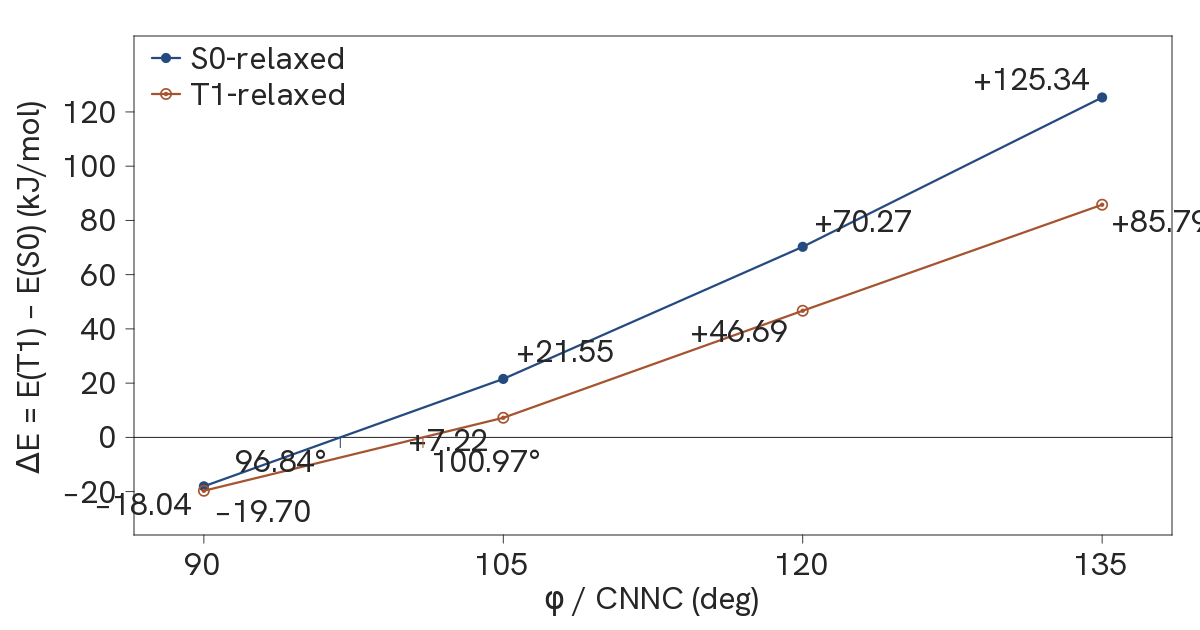
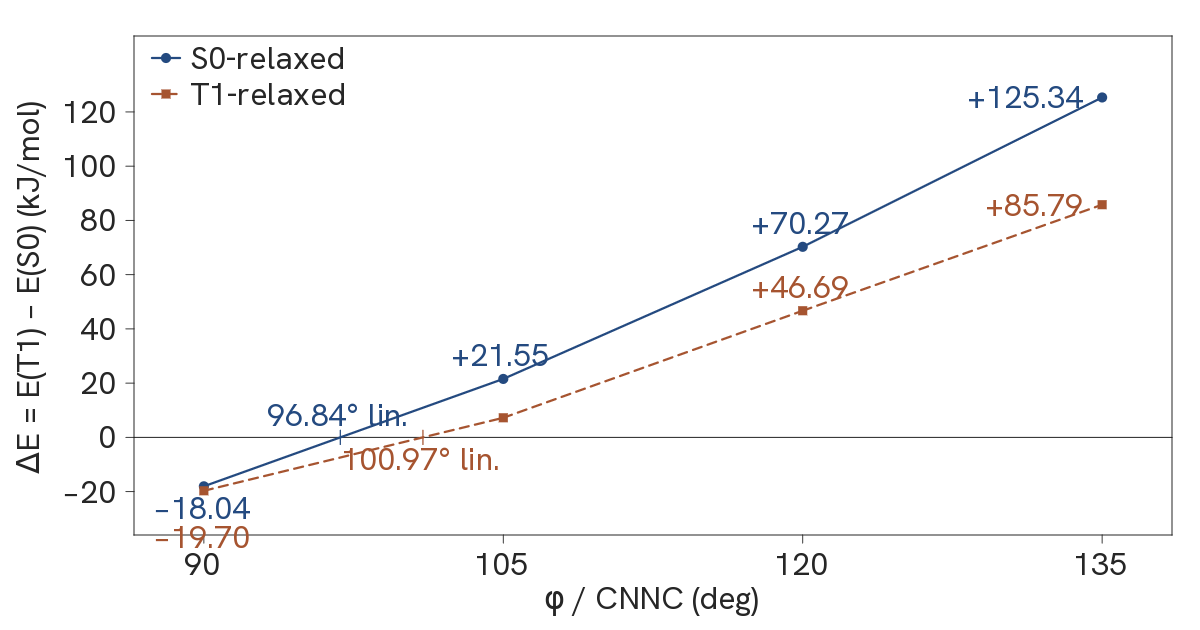
Match two-root Figure 1 to lin. hashes and dashed T1 squares.
The documented figure generator now draws S0-relaxed as a solid series
with filled circles and T1-relaxed as a dashed series with filled
squares. Stored 90–105 interpolants are short hashes on the zero line
labeled lin.; T1 105 stays unlabeled so those hashes remain readable.
The committed 1200×630 OG PNG is the output of that command.

diff --git a/research/hillel-m4-sft-tworoot/analysis/make_deltaE_figure.py b/research/hillel-m4-sft-tworoot/analysis/make_deltaE_figure.py
@@ -519,6 +519,55 @@ def circle(rgb, cx, cy, r, color, fill=True, stroke=1.2):
     )
 
 
+def square(rgb, cx, cy, half, color, fill=True, stroke=1.2):
+    """Axis-aligned square marker. half is the half-side in pixels."""
+    h, w = rgb.shape[:2]
+    cx, cy, half = float(cx), float(cy), float(half)
+    pad = half + stroke + 1.5
+    xmin = max(int(np.floor(cx - pad)), 0)
+    xmax = min(int(np.ceil(cx + pad)) + 1, w)
+    ymin = max(int(np.floor(cy - pad)), 0)
+    ymax = min(int(np.ceil(cy + pad)) + 1, h)
+    if xmin >= xmax or ymin >= ymax:
+        return
+    ys, xs = np.mgrid[ymin:ymax, xmin:xmax]
+    cheb = np.maximum(np.abs(xs + 0.5 - cx), np.abs(ys + 0.5 - cy))
+    if fill:
+        a = np.clip((half + 0.45) - cheb, 0.0, 1.0)
+    else:
+        a = np.clip((stroke * 0.5 + 0.45) - np.abs(cheb - half), 0.0, 1.0)
+    sl = rgb[ymin:ymax, xmin:xmax].astype(np.float64)
+    col = np.asarray(color, dtype=np.float64).reshape(1, 1, 3)
+    rgb[ymin:ymax, xmin:xmax] = np.clip(sl * (1.0 - a[..., None]) + col * a[..., None], 0, 255).astype(
+        np.uint8
+    )
+
+
+def dashed_line(rgb, x0, y0, x1, y1, color, width=1.2, dash=9.0, gap=6.5):
+    dx, dy = float(x1) - float(x0), float(y1) - float(y0)
+    length = math.hypot(dx, dy)
+    if length < 1e-6:
+        return
+    ux, uy = dx / length, dy / length
+    t = 0.0
+    on = True
+    while t < length:
+        run = dash if on else gap
+        t2 = min(length, t + run)
+        if on:
+            line(
+                rgb,
+                float(x0) + ux * t,
+                float(y0) + uy * t,
+                float(x0) + ux * t2,
+                float(y0) + uy * t2,
+                color,
+                width,
+            )
+        t = t2
+        on = not on
+
+
 def blit_img(rgb, img, x, y):
     h, w = img.shape[:2]
     x, y = int(round(x)), int(round(y))
@@ -554,6 +603,8 @@ def missing_frames() -> list[Path]:
 def load_cropped_frame(surf: str, phi: int) -> np.ndarray:
     x0, y0, x1, y1 = CROP
     path = frame_path(surf, phi)
+    if not path.is_file():
+        raise SystemExit(f"missing lab frame: {path.name}")
     im = read_png(path)
     crop = im[y0:y1, x0:x1]
     # refuse to ship a still that still has the old in-frame caption
@@ -650,58 +701,65 @@ def render_plot(metrics: dict, font: Font) -> np.ndarray:
     )
 
     # Two series: adjacent both-assigned neighbors only; straight segments.
+    # S0-relaxed: solid line, filled circles. T1-relaxed: dashed, filled squares.
     for fam in FAMILY_ORDER:
         pts = series[fam]
         color = FAMILY_COLOR[fam]
         for (a, da), (b, db) in zip(pts, pts[1:]):
-            line(rgb, X(a), Y(da), X(b), Y(db), color, 2.15)
+            if fam == "t1_relaxed":
+                dashed_line(rgb, X(a), Y(da), X(b), Y(db), color, 2.15)
+            else:
+                line(rgb, X(a), Y(da), X(b), Y(db), color, 2.15)
         for phi, de in pts:
             if fam == "s0_relaxed":
                 circle(rgb, X(phi), Y(de), 5.1, color, fill=True)
             else:
-                circle(rgb, X(phi), Y(de), 5.1, color, fill=False, stroke=1.8)
-                circle(rgb, X(phi), Y(de), 2.2, color, fill=True)
+                square(rgb, X(phi), Y(de), 4.6, color, fill=True)
 
-    # Point labels from file values, 2 decimals. Offsets keep strings off
-    # markers, both series, the 0-line, and the two interpolant labels.
+    # Point labels from file values, 2 decimals, series color.
+    # T1 105 is drawn but unlabeled: that pocket holds the two lin. hashes.
     label_off = {
         "s0_relaxed": {
-            90: (-8, 18, "right"),
-            105: (14, -28, "left"),
-            120: (12, -26, "left"),
-            135: (-8, -18, "right"),
+            90: (0, 22, "center"),
+            105: (0, -24, "center"),
+            120: (0, -24, "center"),
+            135: (-14, 0, "right"),
         },
         "t1_relaxed": {
-            90: (10, 20, "left"),
-            105: (-10, 22, "right"),
-            120: (-10, 20, "right"),
-            135: (10, 16, "left"),
+            90: (0, 46, "center"),
+            120: (0, -24, "center"),
+            135: (-14, 0, "right"),
         },
     }
     for fam in FAMILY_ORDER:
+        color = FAMILY_COLOR[fam]
         for phi, de in series[fam]:
-            dx, dy, al = label_off[fam][int(phi)]
+            key = int(phi)
+            if key not in label_off[fam]:
+                continue
+            dx, dy, al = label_off[fam][key]
             text(
                 rgb, font, fmt_delta(de),
                 X(phi) + dx, Y(de) + dy,
-                font_px, INK, align=al, valign="middle",
+                font_px, color, align=al, valign="middle",
             )
 
-    # Linear interpolants of the 90–105 pairs at ΔE = 0. Not 110°.
-    # Not drawn as an MECP or an evaluated degeneracy: tick + stored angle.
+    # Stored interpolants only: short hashes on the zero line, labeled "lin."
+    # Not 110°. Not drawn as an MECP, a star, or an evaluated degeneracy.
     s0_xc = interpolants["s0_relaxed"]
     t1_xc = interpolants["t1_relaxed"]
-    line(rgb, X(s0_xc), y0, X(s0_xc), y0 + 10, SERIES_S0, 0.95)
-    line(rgb, X(t1_xc), y0, X(t1_xc), y0 + 10, SERIES_T1, 0.95)
+    hash_h = 7
+    line(rgb, X(s0_xc), y0 - hash_h, X(s0_xc), y0 + hash_h, SERIES_S0, 1.15)
+    line(rgb, X(t1_xc), y0 - hash_h, X(t1_xc), y0 + hash_h, SERIES_T1, 1.15)
     text(
-        rgb, font, f"{s0_xc:.2f}\u00b0",
-        X(s0_xc) - 8, y0 + 12,
-        font_px, INK, align="right", valign="top",
+        rgb, font, f"{s0_xc:.2f}\u00b0 lin.",
+        X(s0_xc), y0 - 10,
+        font_px, SERIES_S0, align="center", valign="bottom",
     )
     text(
-        rgb, font, f"{t1_xc:.2f}\u00b0",
-        X(t1_xc) + 8, y0 + 12,
-        font_px, INK, align="left", valign="top",
+        rgb, font, f"{t1_xc:.2f}\u00b0 lin.",
+        X(t1_xc), y0 + 10,
+        font_px, SERIES_T1, align="center", valign="top",
     )
 
     # Legend in the empty upper-left of the data box.
@@ -715,9 +773,8 @@ def render_plot(metrics: dict, font: Font) -> np.ndarray:
         font_px, INK, align="left", valign="middle",
     )
     legend_y2 = legend_y + 36
-    line(rgb, legend_x, legend_y2, legend_x + 28, legend_y2, SERIES_T1, 2.15)
-    circle(rgb, legend_x + 14, legend_y2, 5.1, SERIES_T1, fill=False, stroke=1.8)
-    circle(rgb, legend_x + 14, legend_y2, 2.2, SERIES_T1, fill=True)
+    dashed_line(rgb, legend_x, legend_y2, legend_x + 28, legend_y2, SERIES_T1, 2.15)
+    square(rgb, legend_x + 14, legend_y2, 4.6, SERIES_T1, fill=True)
     text(
         rgb, font, FAMILY_LABEL["t1_relaxed"],
         legend_x + 38, legend_y2,
@@ -816,8 +873,9 @@ def main():
             print(f"    phi={phi:g}  deltaE_kJmol={de}  label={fmt_delta(de)}")
     for fam in FAMILY_ORDER:
         xc = metrics["interpolants"][fam]
-        print(f"interpolant {fam} phi={xc}  label={xc:.2f}°")
+        print(f"interpolant {fam} phi={xc}  label={xc:.2f}° lin.")
     print("pairs with a drawn interpolant: 90–105 on each family; 110° not marked")
+    print("T1 105 is drawn unlabeled; interpolants are short hashes labeled lin.")
     print("ACS: no title, no subtitle, no stills on the plot")
     print(
         f"standing rule: font_px = round({BODY_PX} * W / {DISPLAY_W}) "

diff --git a/posts/2026-08-28-does-the-m4-sf-profile-gap-survive-same-geometry-two-root.md b/posts/2026-08-28-does-the-m4-sf-profile-gap-survive-same-geometry-two-root.md
@@ -63,10 +63,10 @@ All eight same-geometry points are both-assigned. Table 1 lists assigned SF-S0 a
 **Table 2.** Assigned SF-S0 and SF-T1 totals from one same-geometry SF-TDA single point on each T1-relaxed constrained-CNNC geometry. $\Delta E = E(\mathrm{T1})-E(\mathrm{S0})$ uses both roots from that one calculation. Same method as Table 1.
 
 <figure>
-  <img src="/images/2026-08-28-does-the-m4-sf-profile-gap-survive-same-geometry-two-root-og.png" alt="Same-geometry SF-TDA gap ΔE versus constrained CNNC angle φ for S0-relaxed and T1-relaxed M4 geometries at 90, 105, 120, and 135 degrees, each point labeled with its ΔE value and the 90–105 linear interpolant of each series marked at ΔE = 0.">
+  <img src="/images/2026-08-28-does-the-m4-sf-profile-gap-survive-same-geometry-two-root-og.png" alt="Same-geometry SF-TDA gap ΔE versus constrained CNNC angle φ for S0-relaxed (solid blue circles) and T1-relaxed (dashed orange squares) M4 geometries at 90, 105, 120, and 135 degrees. Most points are labeled with ΔE; T1 at 105 degrees is drawn unlabeled. Short hashes on the zero line mark the 90–105 linear interpolants, labeled lin.">
 </figure>
 
-**Figure 1.** Same-geometry SF-TDA gap versus constrained CNNC angle φ on the two published geometry families. The eight both-assigned points from the Bayes metrics file (ORCA 6.1.1 SF-TDA, LibXC BHANDHLYP, D3BJ/def2-QZVPP) are labeled with their ΔE values. S0-relaxed: φ = 90°, ΔE = [deltae_kjmol_s0_90]{.metric} kJ/mol; 105°, [deltae_kjmol_s0_105]{.metric}; 120°, [deltae_kjmol_s0_120]{.metric}; 135°, [deltae_kjmol_s0_135]{.metric}. T1-relaxed: 90°, [deltae_kjmol_t1_90]{.metric}; 105°, [deltae_kjmol_t1_105]{.metric}; 120°, [deltae_kjmol_t1_120]{.metric}; 135°, [deltae_kjmol_t1_135]{.metric}. Adjacent both-assigned neighbors are joined by straight segments. The 90–105 pair changes sign on both families; [crossing_phi_deg_s0]{.metric}° and [crossing_phi_deg_t1]{.metric}° mark those pairs’ linear interpolants at ΔE = 0. The 105–120 and 120–135 pairs stay positive on both families and have no zero marker. 110° has no marker.
+**Figure 1.** Same-geometry SF-TDA gap versus constrained CNNC angle φ on the two published geometry families. The eight both-assigned points come from the Bayes metrics file (ORCA 6.1.1 SF-TDA, LibXC BHANDHLYP, D3BJ/def2-QZVPP). S0-relaxed: φ = 90°, ΔE = [deltae_kjmol_s0_90]{.metric} kJ/mol; 105°, [deltae_kjmol_s0_105]{.metric}; 120°, [deltae_kjmol_s0_120]{.metric}; 135°, [deltae_kjmol_s0_135]{.metric}. T1-relaxed: 90°, [deltae_kjmol_t1_90]{.metric}; 105°, [deltae_kjmol_t1_105]{.metric} (drawn unlabeled on the plot); 120°, [deltae_kjmol_t1_120]{.metric}; 135°, [deltae_kjmol_t1_135]{.metric}. Adjacent both-assigned neighbors are joined by straight segments. The 90–105 pair changes sign on both families; [crossing_phi_deg_s0]{.metric}° and [crossing_phi_deg_t1]{.metric}° are those pairs’ linear interpolants at ΔE = 0, marked as short hashes labeled lin. The 105–120 and 120–135 pairs stay positive on both families and have no zero marker. 110° has no marker.
 
 On both constrained-CNNC geometry families, the same-geometry SF-TDA gap $E(\mathrm{T1})-E(\mathrm{S0})$ changes sign between 90° and 105° (Figure 1). The linear interpolant of the S0-relaxed 90°/105° pair is [crossing_phi_deg_s0]{.metric}°. The linear interpolant of the T1-relaxed 90°/105° pair is [crossing_phi_deg_t1]{.metric}°. The 105°/120° pair does not change sign on the S0-relaxed family ([deltae_kjmol_s0_105]{.metric} and [deltae_kjmol_s0_120]{.metric} kJ/mol) or on the T1-relaxed family ([deltae_kjmol_t1_105]{.metric} and [deltae_kjmol_t1_120]{.metric} kJ/mol). The 120°/135° pair does not change sign on either family.
 

diff --git a/research/hillel-m4-sft-tworoot/README.md b/research/hillel-m4-sft-tworoot/README.md
@@ -90,9 +90,10 @@ The command updates:
   (only when frames exist)
 
 and an ignored preview beside the renderer. Point labels on the plot are the
-stored ΔE values. Linear interpolants of the 90–105 pairs are marked at
-ΔE = 0; they are not labeled as an MECP or an evaluated degeneracy. 110°
-is unmarked.
+stored ΔE values (T1 105 is drawn unlabeled so the two interpolant hashes
+remain readable). Linear interpolants of the 90–105 pairs are short hashes
+on the ΔE = 0 line, labeled “lin.”; they are not labeled as an MECP or an
+evaluated degeneracy. 110° is unmarked.
 
 ## Data and publication
 
